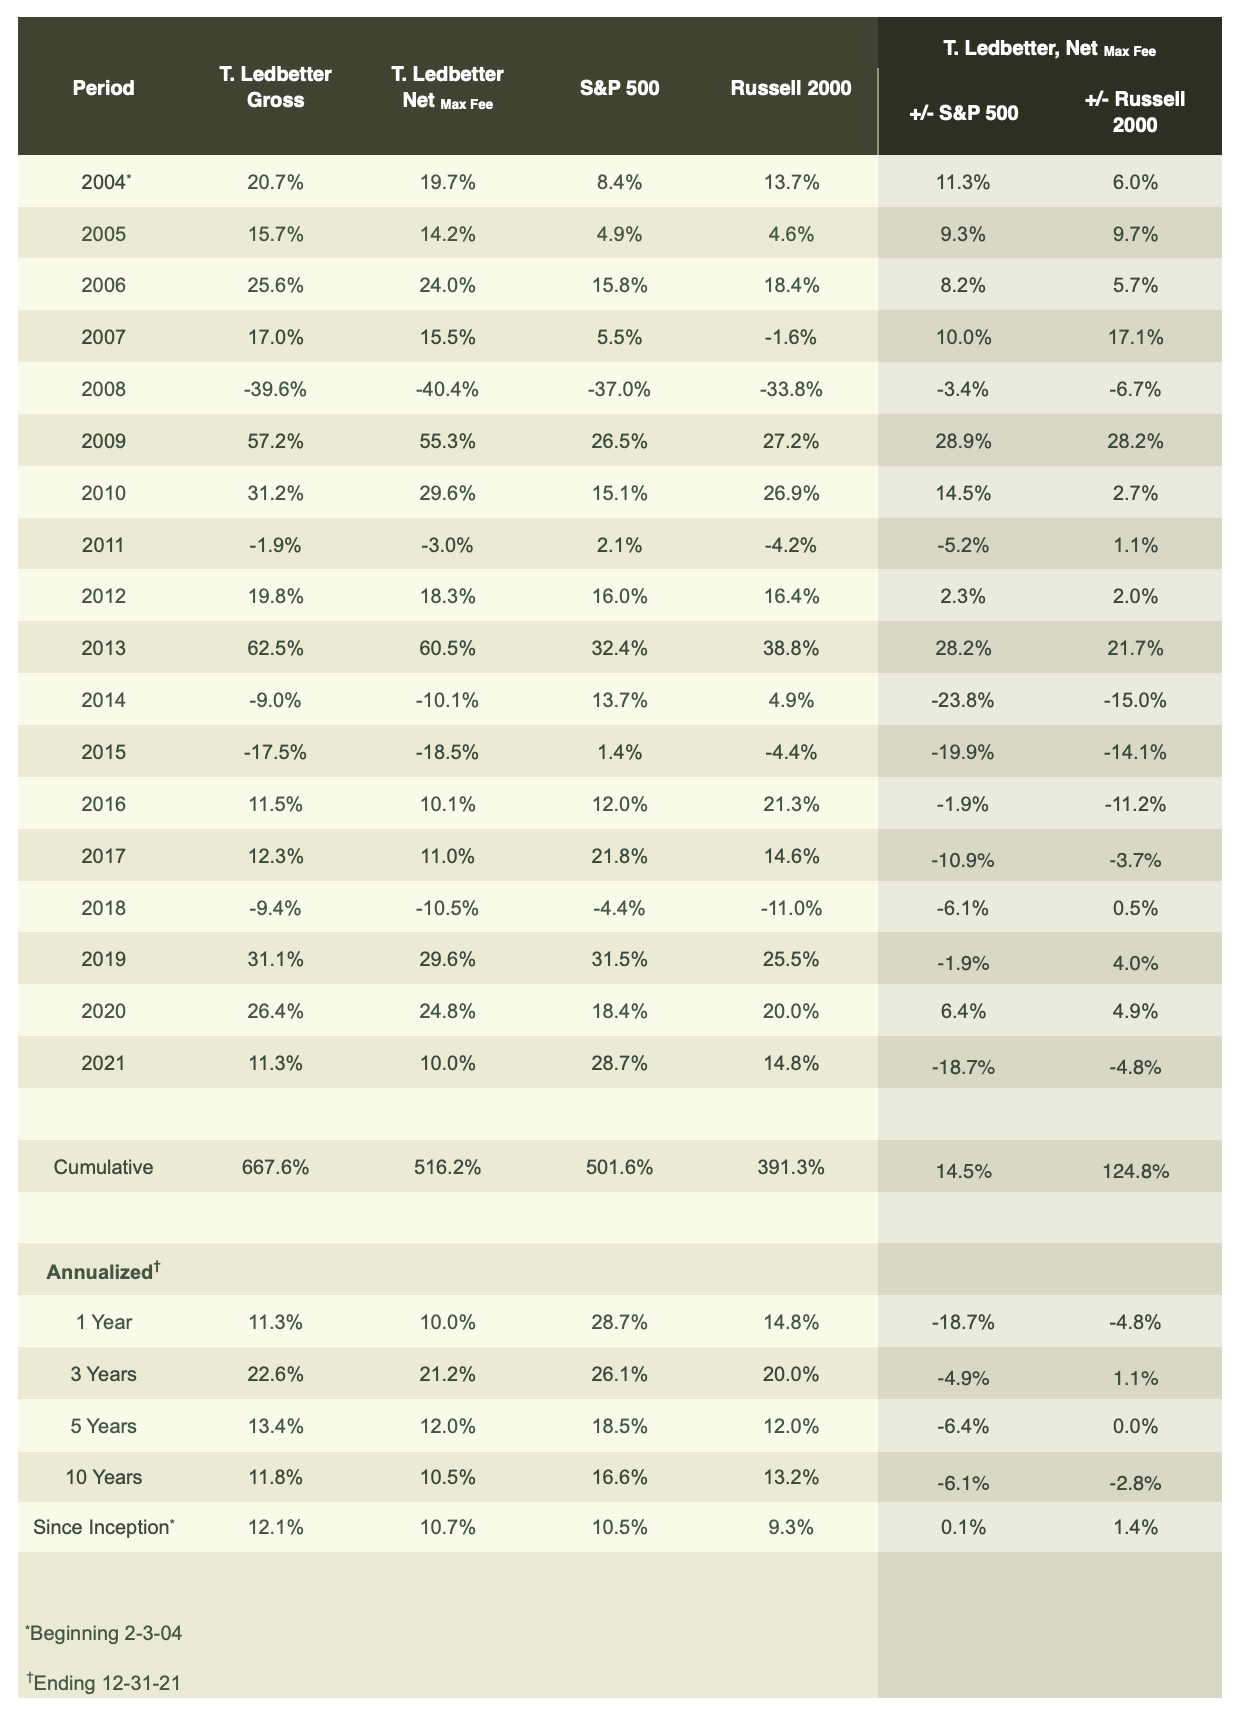
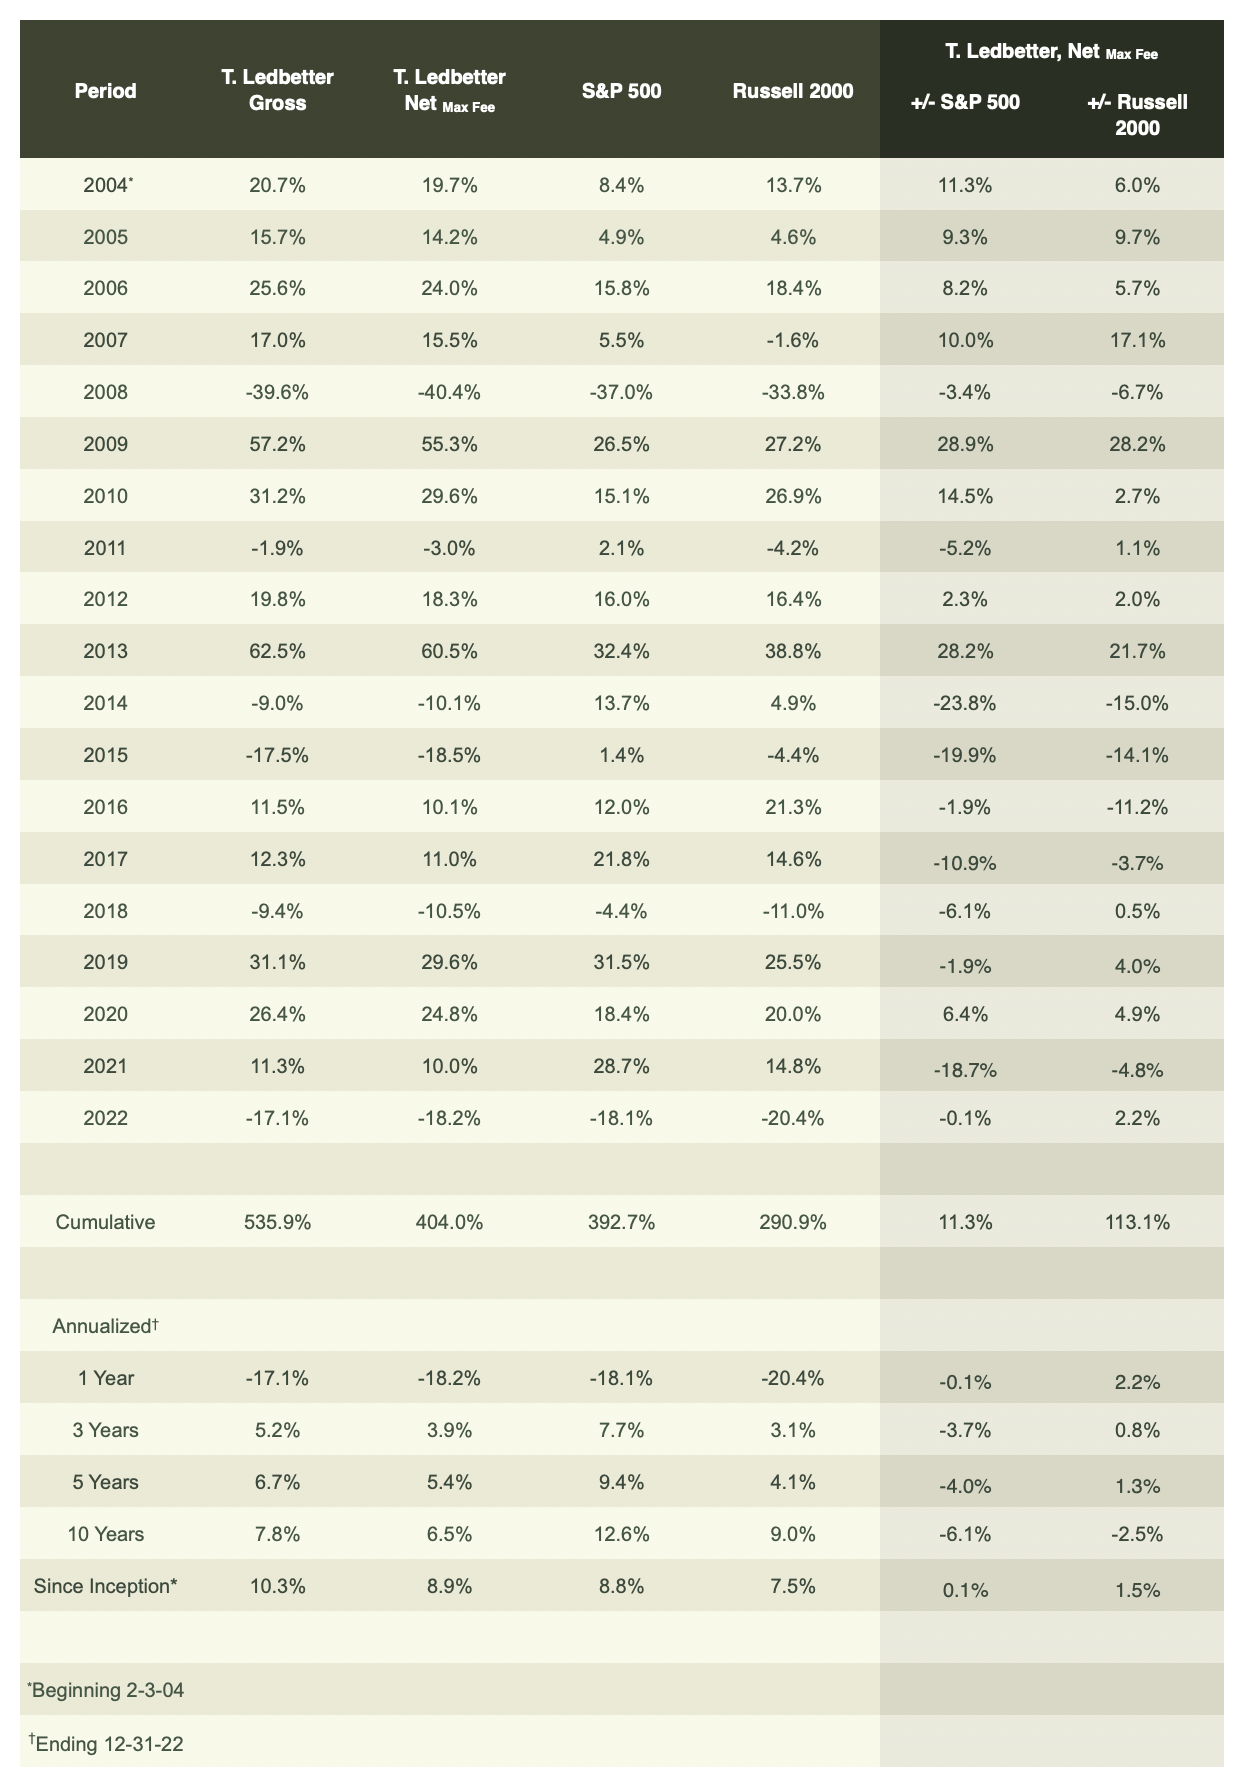
jan23 update

diff --git a/performance.html b/performance.html
@@ -16,7 +16,7 @@ title: Performance
         <br>of Terry Ledbetter, <div style="display:inline-block"> Jr., CFA</div>
       </h1>
 
-      <div class="performSubHead" class="subHead">Growth of $100,000 from 2/3/04 to 12/31/21</div>
+      <div class="performSubHead" class="subHead">Growth of $100,000 from 2/3/04 to 12/31/22</div>
     </div>
   </div><!--end row -->
 
@@ -44,7 +44,7 @@ title: Performance
     <div class="span10 offset1">
       <h1 class="performHead">Historical Performance<br> of Kopion Asset Management, LLC </h1>
 
-      <div class="performSubHead" class="subHead">Growth of $100,000 from 8/23/09 to 12/31/21</div>
+      <div class="performSubHead" class="subHead">Growth of $100,000 from 8/23/09 to 12/31/22</div>
     </div>
   </div><!--end row -->
 
